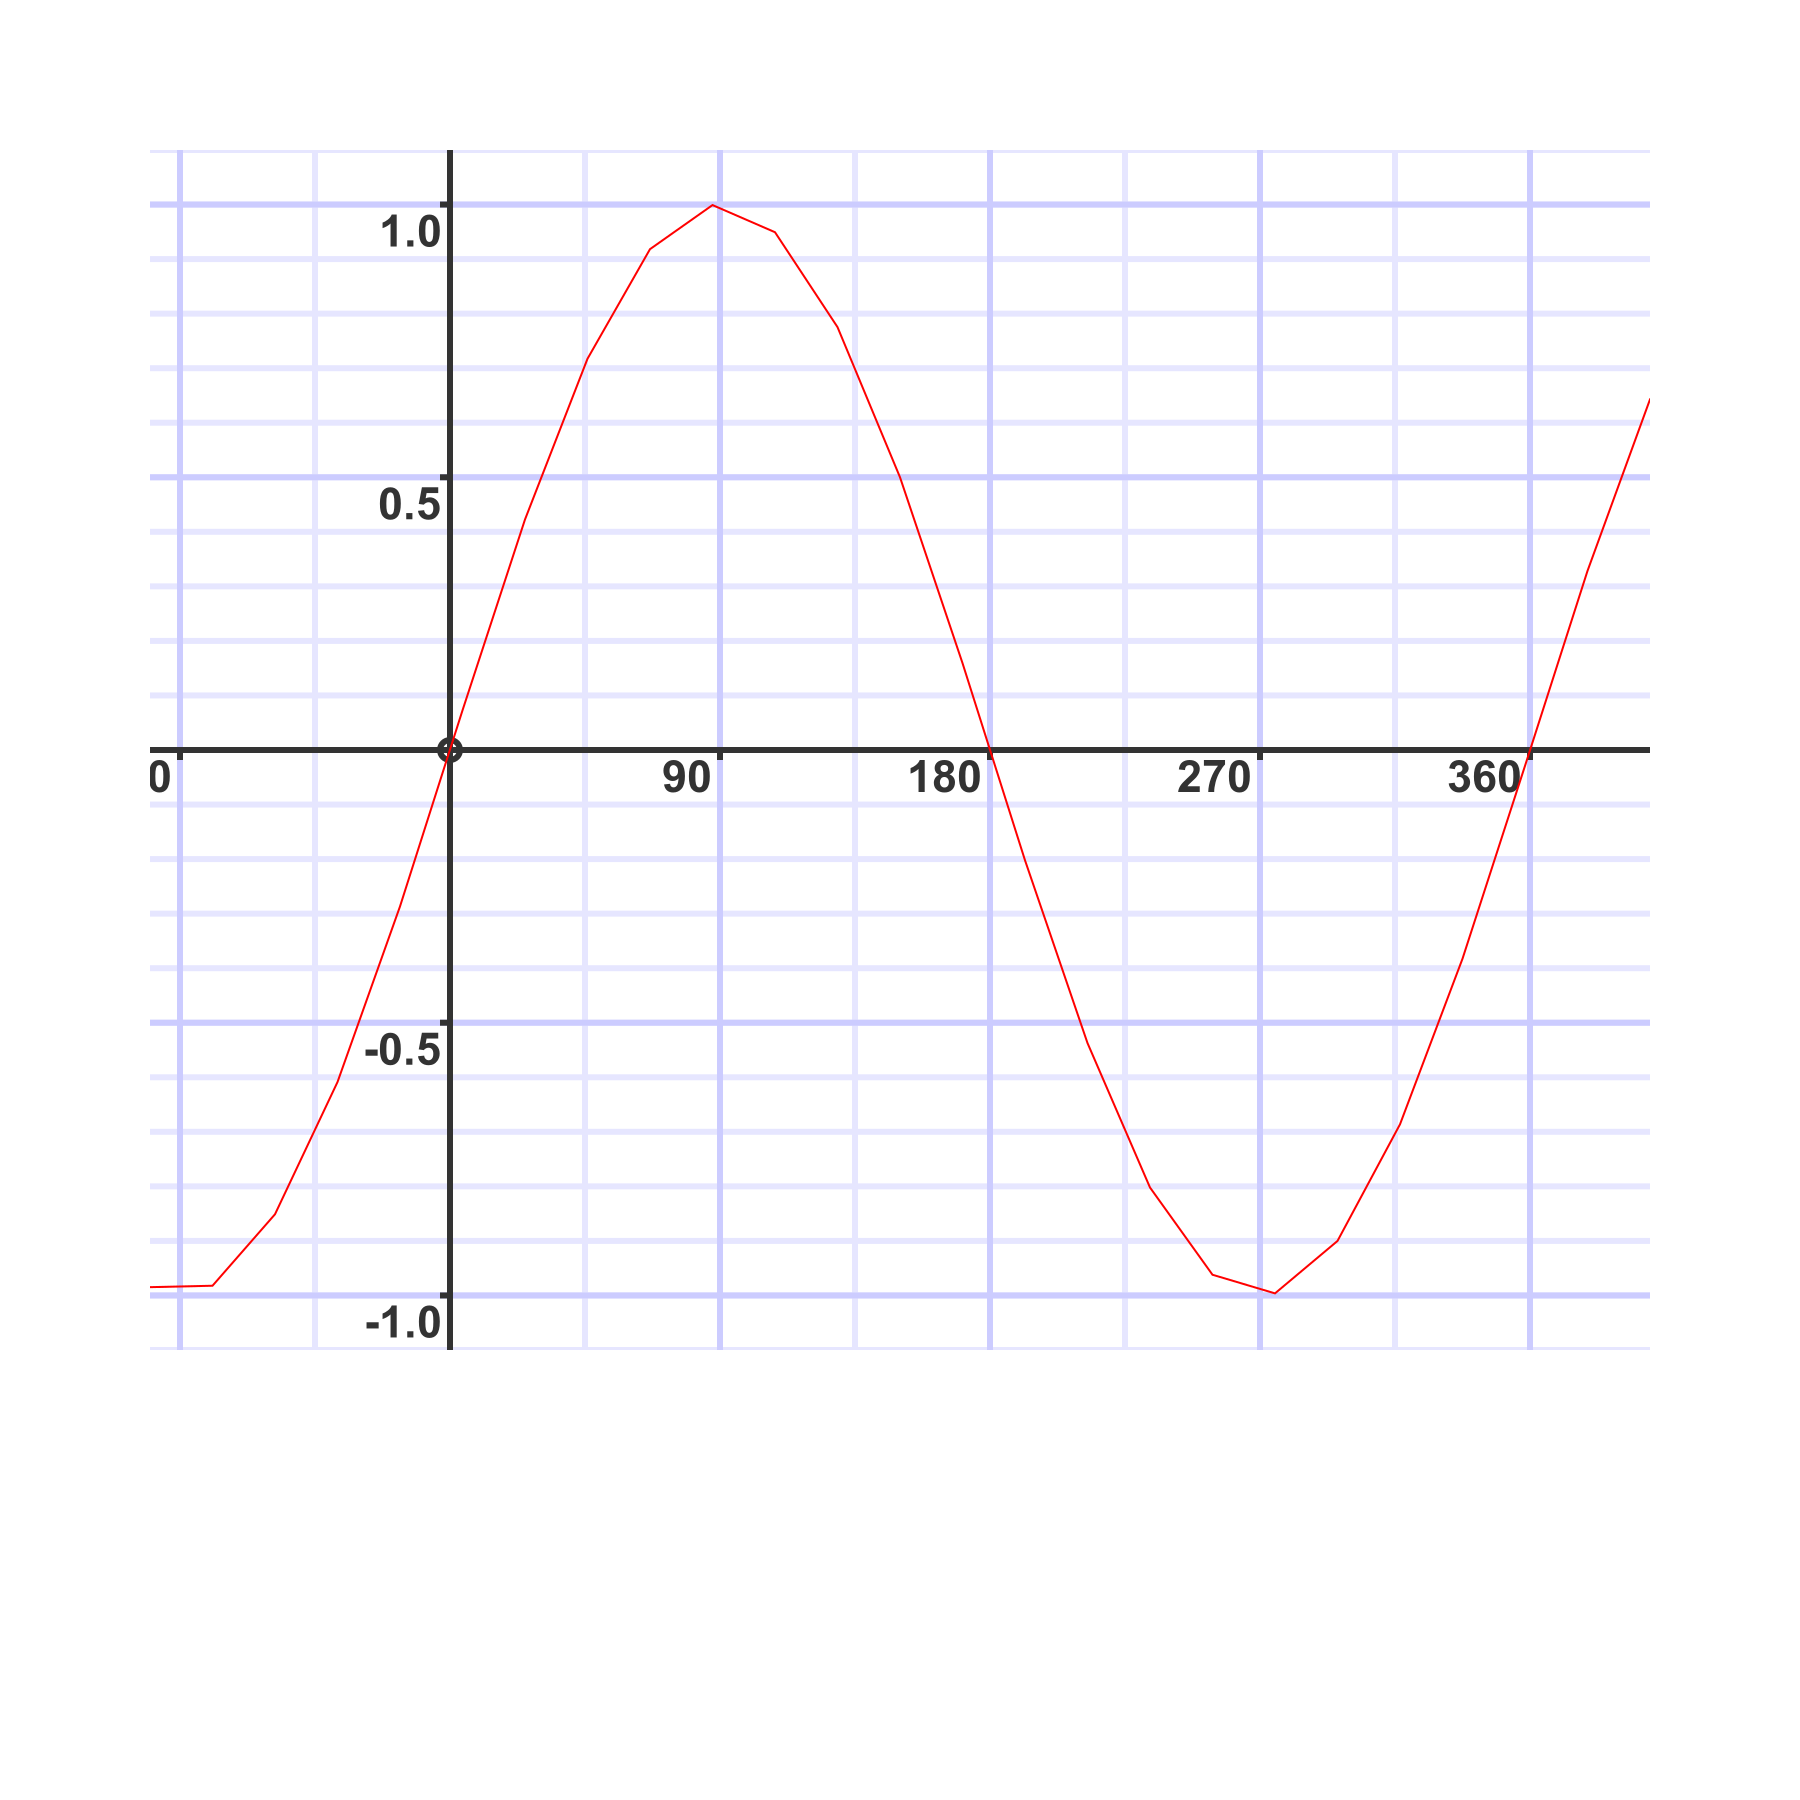
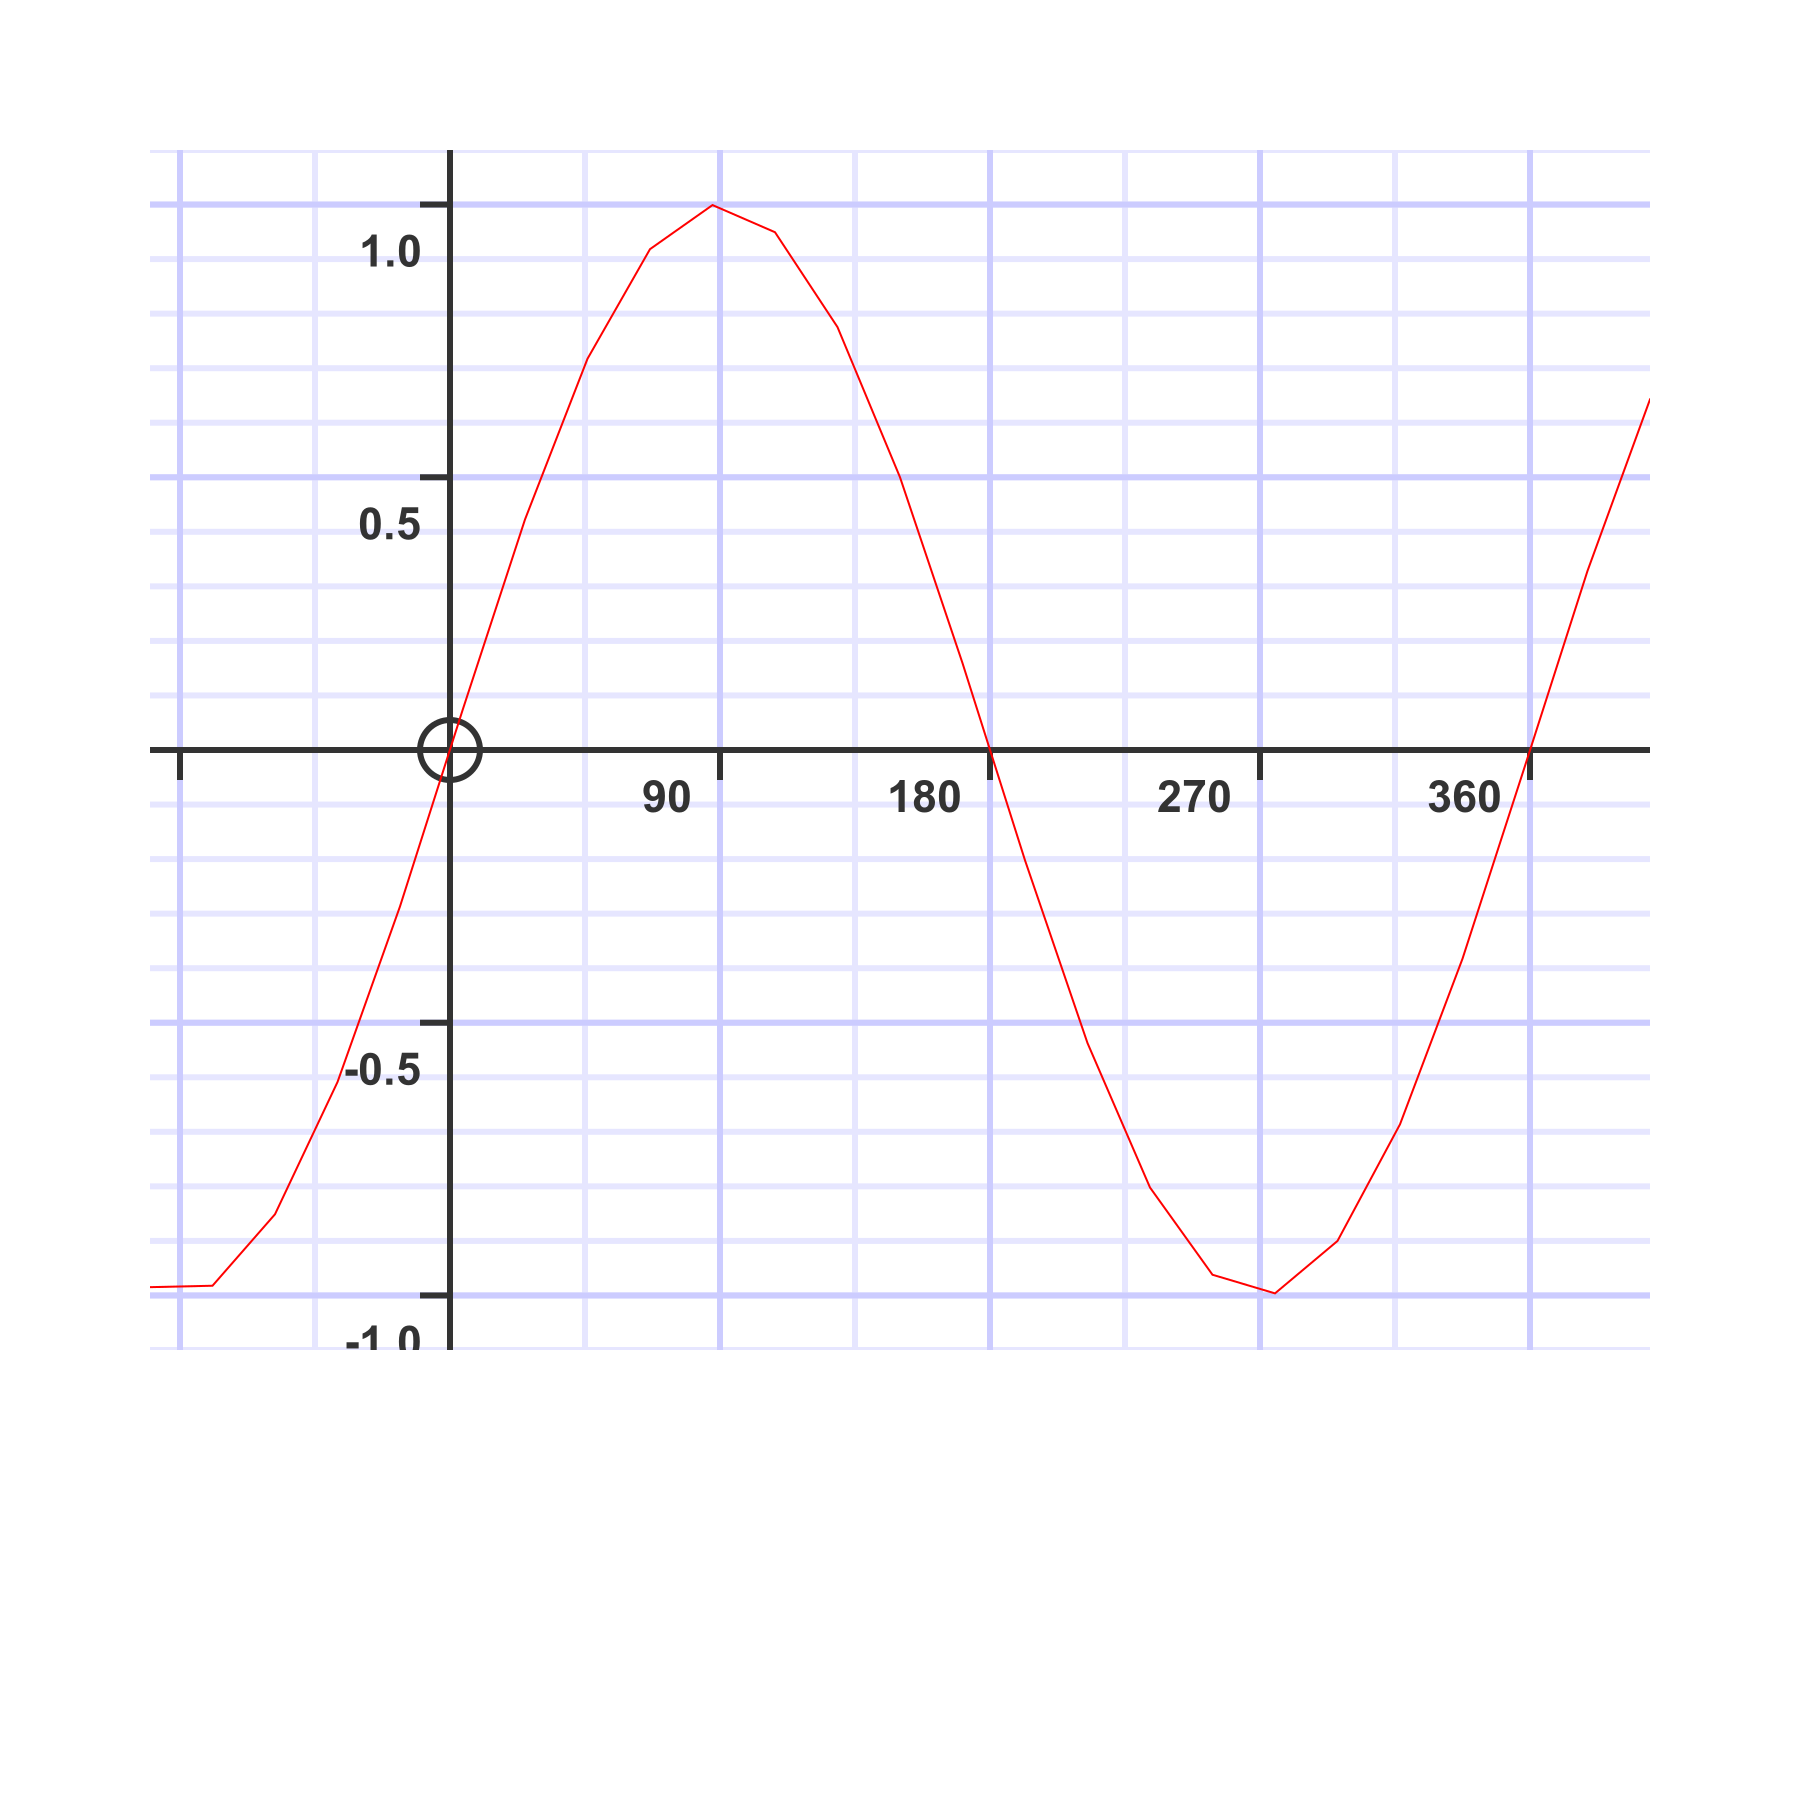
Add text metrics, and automatically adjust graphs based on text height

diff --git a/generativepy/graph.py b/generativepy/graph.py
@@ -44,6 +44,7 @@ class Axes:
         self.divisions = (1, 1)
         self.subdivisons = False
         self.subdivisionfactor = 1
+        self.text_height = 0
 
     def of_start(self, start):
         '''
@@ -157,6 +158,14 @@ class Axes:
         Draw the axes
         :return:
         '''
+
+        # Get the text height using the selected font. This is used to control text offset and other sizes.
+        _, self.text_height = Text(self.ctx).of('0', (0, 0)) \
+                                .font(self.appearance.fontparams.font,
+                                      self.appearance.fontparams.weight,
+                                      self.appearance.fontparams.slant) \
+                                .size(self.appearance.fontparams.size * self.appearance.featurescale) \
+                                .get_size()
         self.clip()
         self._draw_background()
         if self.subdivisons:
@@ -205,7 +214,7 @@ class Axes:
         self.ctx.line_to(*self.transform_from_graph((self.start[0] + self.extent[0], 0)))
         self.ctx.stroke()
         self.ctx.new_path()
-        self.ctx.arc(*self.transform_from_graph((0, 0)), 10, 0, 2 * math.pi)
+        self.ctx.arc(*self.transform_from_graph((0, 0)), self.text_height/1.1, 0, 2 * math.pi)
         self.ctx.stroke()
 
     def _draw_axes_values(self):
@@ -213,8 +222,8 @@ class Axes:
         params.line_width *= self.appearance.featurescale
         params.apply(self.ctx)
 
-        xoffset = 10
-        yoffset = 10
+        xoffset = self.text_height/1.1
+        yoffset = self.text_height/1.1
         for p in self._get_divs(self.start[0], self.extent[0], self.divisions[0]):
             if abs(p)>0.001:
                 position = self.transform_from_graph((p, 0))

diff --git a/test/test_text.py b/test/test_text.py
@@ -1,0 +1,29 @@
+import unittest
+import cairo
+from generativepy.geometry import Text
+
+
+class TestText(unittest.TestCase):
+
+    # Test text extent
+    def test_text_extent(self):
+        surface = cairo.ImageSurface(cairo.FORMAT_RGB24, 100, 200)
+        ctx = cairo.Context(surface)
+        x_bearing, y_bearing, width, height, x_advance, y_advance = Text(ctx).of('abc', (0, 0)).get_metrics()
+        self.assertAlmostEqual(x_bearing, 0)
+        self.assertAlmostEqual(y_bearing, -7)
+        self.assertAlmostEqual(width, 17)
+        self.assertAlmostEqual(height, 7)
+        self.assertAlmostEqual(x_advance, 17)
+        self.assertAlmostEqual(y_advance, 0)
+
+    # Test text size
+    def test_text_size(self):
+        surface = cairo.ImageSurface(cairo.FORMAT_RGB24, 100, 200)
+        ctx = cairo.Context(surface)
+        width, height = Text(ctx).of('abc', (0, 0)).get_size()
+        self.assertAlmostEqual(width, 17)
+        self.assertAlmostEqual(height, 7)
+
+if __name__ == '__main__':
+    unittest.main()

diff --git a/generativepy/geometry.py b/generativepy/geometry.py
@@ -425,6 +425,23 @@ class Text(Shape):
             self.ctx.text_path(self.text)
         return self
 
+    def get_metrics(self):
+        '''
+        Get the size of the text.
+        :return: a tuple (x_bearing, y_bearing, width, height, x_advance, y_advance)
+        '''
+        FontParameters(font=self._font, size=self._size, weight=self._weight, slant=self._slant).apply(self.ctx)
+        return self.ctx.text_extents(self.text)
+
+    def get_size(self):
+        '''
+        Get the size of the text.
+        :return: a tuple (width)
+        '''
+        FontParameters(font=self._font, size=self._size, weight=self._weight, slant=self._slant).apply(self.ctx)
+        extents = self.ctx.text_extents(self.text)
+        return extents[2], extents[3]
+
     def of(self, text, position):
         self.text = text
         self.position = position
